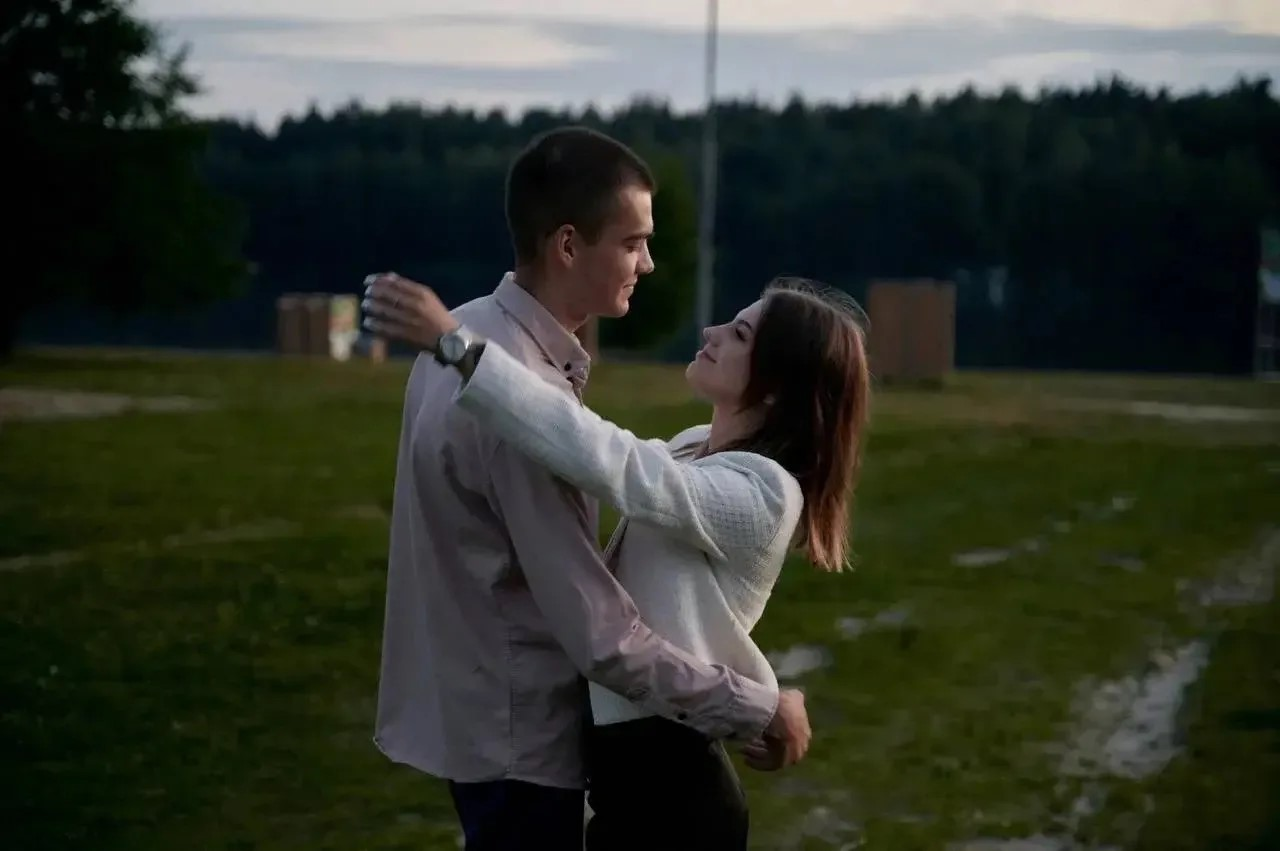
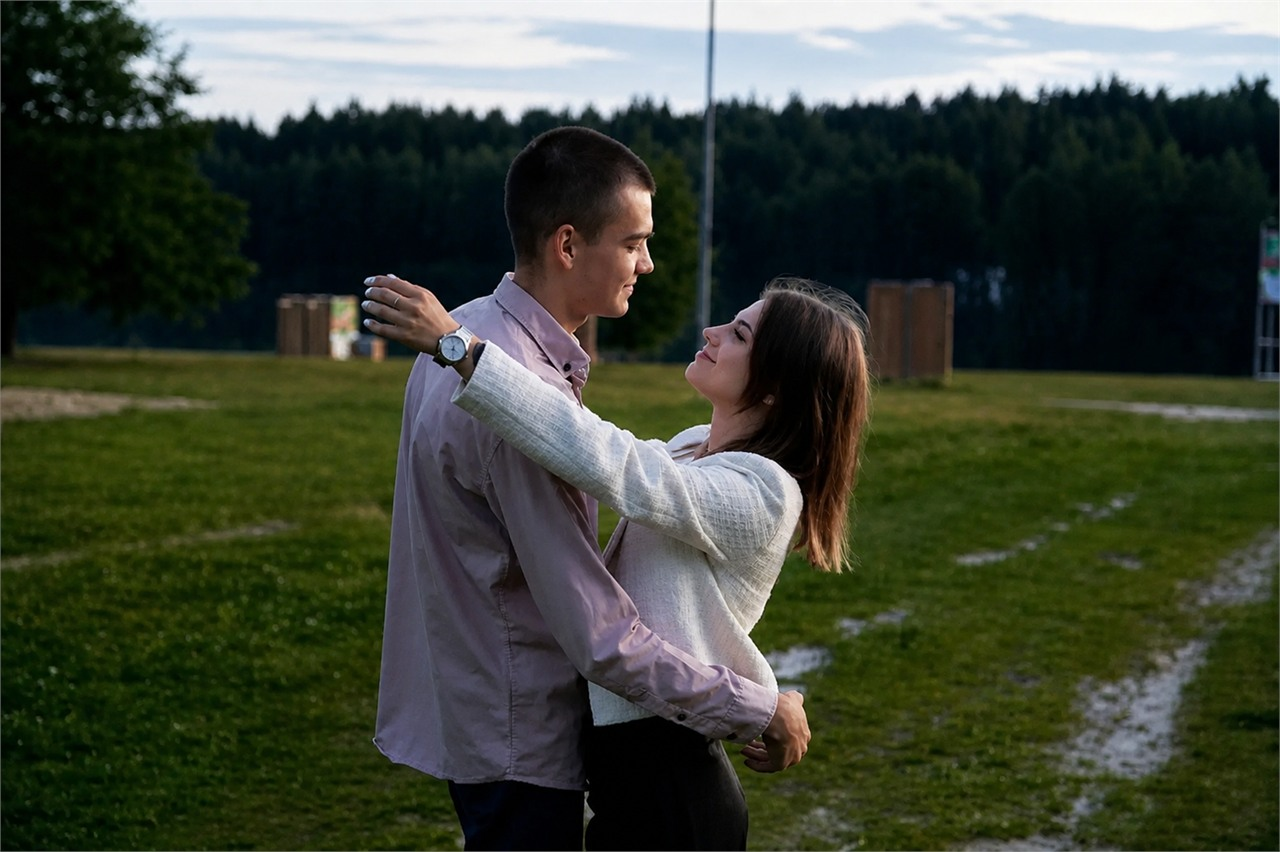
Update invitation assets and demo watermark

diff --git a/index.html b/index.html
@@ -14,10 +14,26 @@
     href="https://fonts.googleapis.com/css2?family=Allura&family=Cormorant+Garamond:wght@400;500;600;700&family=Manrope:wght@400;500;600&display=swap"
     rel="stylesheet"
   >
-  <link rel="preload" as="image" href="assets/img/ilya_eva_couple.jpg?v=20260503a">
-  <link rel="stylesheet" href="styles.css?v=20260503a">
+  <script>
+    document.documentElement.classList.add("reveal-ready");
+  </script>
+  <link rel="preload" as="image" href="assets/img/ilya_eva_couple.jpg?v=20260503c">
+  <link rel="stylesheet" href="styles.css?v=20260503b">
 </head>
 <body>
+  <div class="payment-watermark" aria-hidden="true">
+    <span>ДЕМО • НЕ ОПЛАЧЕНО</span>
+    <span>ДЕМО • НЕ ОПЛАЧЕНО</span>
+    <span>ДЕМО • НЕ ОПЛАЧЕНО</span>
+    <span>ДЕМО • НЕ ОПЛАЧЕНО</span>
+    <span>ДЕМО • НЕ ОПЛАЧЕНО</span>
+    <span>ДЕМО • НЕ ОПЛАЧЕНО</span>
+    <span>ДЕМО • НЕ ОПЛАЧЕНО</span>
+    <span>ДЕМО • НЕ ОПЛАЧЕНО</span>
+    <span>ДЕМО • НЕ ОПЛАЧЕНО</span>
+  </div>
+  <div class="payment-badge" aria-hidden="true">Демо-версия. Сайт не оплачен</div>
+
   <div class="video-background" aria-hidden="true">
     <video data-background-video autoplay muted loop playsinline webkit-playsinline preload="auto" disablepictureinpicture>
       <source src="2fon.mp4" type="video/mp4">
@@ -81,8 +97,8 @@
                 <div class="showcase-card__gallery">
                   <figure class="showcase-card__image">
                     <img
-                      src="assets/img/ilya_eva_couple.jpg"
-                      srcset="assets/img/ilya_eva_couple.jpg 1280w, assets/img/ilya_eva_couple-wide.jpg 2560w"
+                      src="assets/img/ilya_eva_couple.jpg?v=20260503c"
+                      srcset="assets/img/ilya_eva_couple.jpg?v=20260503c 1280w, assets/img/ilya_eva_couple-wide.jpg?v=20260503c 1537w"
                       sizes="(max-width: 739px) 92vw, 46vw"
                       alt="Илья и Ева"
                       decoding="async"
@@ -116,7 +132,7 @@
 
           <figure class="invitation-card__photo">
             <img
-              src="assets/img/ilya_eva_kiss.jpg"
+              src="assets/img/ilya_eva_kiss.jpg?v=20260503c"
               alt="Илья и Ева на прогулке"
               loading="lazy"
               decoding="async"
@@ -186,11 +202,34 @@
             <p class="section-kicker">место проведения</p>
             <h3>Бар «Элла»</h3>
             <p class="venue-card__address">
-              Праздничный банкет пройдет на веранде.
+              пр. Ленина, 2, Егорьевск, Московская обл., Россия, 140304
             </p>
-            <p>
-              Точный адрес добавим после уточнения площадки.
-            </p>
+            <div class="map-frame">
+              <iframe
+                title="Карта бара Элла"
+                src="https://www.openstreetmap.org/export/embed.html?bbox=39.0474%2C55.3699%2C39.0574%2C55.3760&layer=mapnik&marker=55.3729668%2C39.0524102"
+                loading="lazy"
+                referrerpolicy="no-referrer-when-downgrade"
+              ></iframe>
+            </div>
+            <div class="venue-card__actions">
+              <a
+                class="button button--filled"
+                href="https://yandex.ru/maps/?text=%D0%91%D0%B0%D1%80%20%C2%AB%D0%AD%D0%BB%D0%BB%D0%B0%C2%BB%2C%20%D0%BF%D1%80.%20%D0%9B%D0%B5%D0%BD%D0%B8%D0%BD%D0%B0%2C%202%2C%20%D0%95%D0%B3%D0%BE%D1%80%D1%8C%D0%B5%D0%B2%D1%81%D0%BA%2C%20%D0%9C%D0%BE%D1%81%D0%BA%D0%BE%D0%B2%D1%81%D0%BA%D0%B0%D1%8F%20%D0%BE%D0%B1%D0%BB.%2C%20%D0%A0%D0%BE%D1%81%D1%81%D0%B8%D1%8F%2C%20140304"
+                target="_blank"
+                rel="noreferrer"
+              >
+                Яндекс Карты
+              </a>
+              <a
+                class="button"
+                href="https://maps.google.com/?q=%D0%91%D0%B0%D1%80%20%C2%AB%D0%AD%D0%BB%D0%BB%D0%B0%C2%BB%2C%20%D0%BF%D1%80.%20%D0%9B%D0%B5%D0%BD%D0%B8%D0%BD%D0%B0%2C%202%2C%20%D0%95%D0%B3%D0%BE%D1%80%D1%8C%D0%B5%D0%B2%D1%81%D0%BA%2C%20%D0%9C%D0%BE%D1%81%D0%BA%D0%BE%D0%B2%D1%81%D0%BA%D0%B0%D1%8F%20%D0%BE%D0%B1%D0%BB.%2C%20%D0%A0%D0%BE%D1%81%D1%81%D0%B8%D1%8F%2C%20140304"
+                target="_blank"
+                rel="noreferrer"
+              >
+                Google Maps
+              </a>
+            </div>
           </article>
         </div>
       </section>
@@ -290,6 +329,6 @@
     </footer>
   </div>
 
-  <script src="script.js?v=20260503a"></script>
+  <script src="script.js?v=20260503b"></script>
 </body>
 </html>

diff --git a/styles.css b/styles.css
@@ -132,6 +132,63 @@ button {
   overflow-x: hidden;
 }
 
+.payment-watermark,
+.payment-badge {
+  position: fixed;
+  pointer-events: none;
+  user-select: none;
+  z-index: 80;
+}
+
+.payment-watermark {
+  inset: -14vh -12vw;
+  display: grid;
+  grid-template-columns: repeat(3, minmax(240px, 1fr));
+  gap: 72px 46px;
+  align-content: center;
+  justify-items: center;
+  opacity: 0.16;
+  transform: rotate(-18deg);
+  mix-blend-mode: multiply;
+}
+
+.payment-watermark span {
+  display: inline-flex;
+  align-items: center;
+  justify-content: center;
+  padding: 0.42em 0.86em;
+  border: 2px solid currentColor;
+  border-radius: var(--radius-pill);
+  background: rgba(255, 255, 255, 0.12);
+  color: rgba(92, 28, 28, 0.92);
+  font-family: "Manrope", sans-serif;
+  font-size: clamp(1.35rem, 4vw, 3.4rem);
+  font-weight: 700;
+  letter-spacing: 0.18em;
+  line-height: 1;
+  text-transform: uppercase;
+  white-space: nowrap;
+}
+
+.payment-badge {
+  left: 50%;
+  bottom: 14px;
+  z-index: 90;
+  transform: translateX(-50%);
+  padding: 10px 16px;
+  border: 1px solid rgba(255, 255, 255, 0.42);
+  border-radius: var(--radius-pill);
+  background: rgba(68, 20, 20, 0.78);
+  box-shadow: 0 12px 30px rgba(31, 15, 11, 0.24);
+  color: rgba(255, 255, 255, 0.96);
+  font-family: "Manrope", sans-serif;
+  font-size: 0.78rem;
+  font-weight: 700;
+  letter-spacing: 0.12em;
+  text-transform: uppercase;
+  white-space: nowrap;
+}
+
 .section,
 .site-footer {
   width: 100%;
@@ -1169,26 +1226,6 @@ html.reveal-ready .reveal.is-visible {
   transform: none;
 }
 
-/* Keep the first viewport fully interactive and visible immediately. */
-html.reveal-ready .hero .reveal,
-html.reveal-ready .hero [data-reveal] {
-  opacity: 1;
-  transform: none;
-  transition-duration: 0ms;
-  transition-delay: 0ms;
-  will-change: auto;
-}
-
-html.reveal-ready #welcome,
-html.reveal-ready #welcome .reveal,
-html.reveal-ready #welcome [data-reveal] {
-  opacity: 1;
-  transform: none;
-  transition-duration: 0ms;
-  transition-delay: 0ms;
-  will-change: auto;
-}
-
 @media (min-width: 740px) {
   .site-header {
     grid-template-columns: auto 1fr auto;
@@ -1253,6 +1290,26 @@ html.reveal-ready #welcome [data-reveal] {
 
   .video-background::after {
     background: linear-gradient(180deg, rgba(28, 32, 22, 0.2) 0%, rgba(28, 32, 22, 0.12) 35%, rgba(28, 32, 22, 0.26) 100%);
+  }
+
+  .payment-watermark {
+    inset: -10vh -38vw;
+    grid-template-columns: repeat(2, minmax(220px, 1fr));
+    gap: 56px 26px;
+    opacity: 0.19;
+  }
+
+  .payment-watermark span {
+    font-size: clamp(1.15rem, 8vw, 2.25rem);
+    letter-spacing: 0.12em;
+  }
+
+  .payment-badge {
+    bottom: 10px;
+    max-width: calc(100vw - 24px);
+    padding: 9px 12px;
+    font-size: 0.66rem;
+    letter-spacing: 0.08em;
   }
 
   .glass-card,
@@ -1455,6 +1512,8 @@ html.reveal-ready #welcome [data-reveal] {
     scroll-behavior: auto;
   }
 
+  html.reveal-ready [data-reveal],
+  html.reveal-ready .reveal,
   [data-reveal],
   .reveal {
     opacity: 1;

diff --git a/script.js b/script.js
@@ -1,5 +1,10 @@
 const enableRevealAnimations = true;
-const revealInitDelayMs = 1800;
+const revealInitDelayMs = 120;
+let revealInitialized = false;
+
+if (enableRevealAnimations) {
+  document.documentElement.classList.add("reveal-ready");
+}
 
 const weddingDate = new Date("2026-08-05T17:00:00+03:00");
 const targetEmail = "smirnova.island@yandex.ru";
@@ -138,15 +143,22 @@ function initBackgroundVideo() {
 }
 
 function initReveal() {
-  if (document.documentElement.classList.contains("reveal-ready")) {
+  if (revealInitialized) {
     return;
   }
 
+  revealInitialized = true;
+
   const autoRevealGroups = [
-    ["#location .section-head > *", 50],
-    ["#schedule .timeline__item", 60],
-    ["#rsvp .rsvp-form", 80],
-    [".site-footer", 100],
+    [".section-head > *", 50],
+    [".showcase-card__main > *", 70],
+    [".invitation-card__text > *", 70],
+    [".calendar-card > *", 60],
+    [".venue-card > *", 70],
+    [".timeline__text > *", 50],
+    [".rsvp-form > *:not(.rsvp-form__actions)", 50],
+    [".rsvp-form__actions > *", 60],
+    [".site-footer > *", 70],
   ];
 
   autoRevealGroups.forEach(([selector, step]) => {
@@ -160,8 +172,7 @@ function initReveal() {
     });
   });
 
-  const items = Array.from(document.querySelectorAll(".reveal, [data-reveal]"))
-    .filter((item) => !item.closest(".hero") && !item.closest("#welcome"));
+  const items = Array.from(document.querySelectorAll(".reveal, [data-reveal]"));
 
   function showItem(item) {
     item.classList.add("is-visible");
@@ -173,16 +184,26 @@ function initReveal() {
     return rect.top < window.innerHeight * 0.88;
   }
 
-  items.forEach((item) => {
-    if (isAlreadyInView(item)) {
-      showItem(item);
-    }
-  });
+  const initialItems = items.filter(isAlreadyInView);
+  const initialItemsSet = new Set(initialItems);
+  const showInitialItems = () => {
+    initialItems.forEach(showItem);
+  };
 
-  document.documentElement.classList.add("reveal-ready");
+  if ("requestAnimationFrame" in window) {
+    window.requestAnimationFrame(() => {
+      window.requestAnimationFrame(showInitialItems);
+    });
+  } else {
+    showInitialItems();
+  }
 
   if (!("IntersectionObserver" in window)) {
-    items.forEach(showItem);
+    items.forEach((item) => {
+      if (!initialItemsSet.has(item)) {
+        showItem(item);
+      }
+    });
     return;
   }
 
@@ -202,7 +223,7 @@ function initReveal() {
   );
 
   items.forEach((item) => {
-    if (!item.classList.contains("is-visible")) {
+    if (!initialItemsSet.has(item)) {
       observer.observe(item);
     }
   });
@@ -213,16 +234,7 @@ function scheduleRevealAnimations() {
     return;
   }
 
-  window.setTimeout(() => {
-    const startReveal = () => initReveal();
-
-    if ("requestIdleCallback" in window) {
-      window.requestIdleCallback(startReveal, { timeout: 1200 });
-      return;
-    }
-
-    startReveal();
-  }, revealInitDelayMs);
+  window.setTimeout(initReveal, revealInitDelayMs);
 }
 
 function initMobileMenu() {
